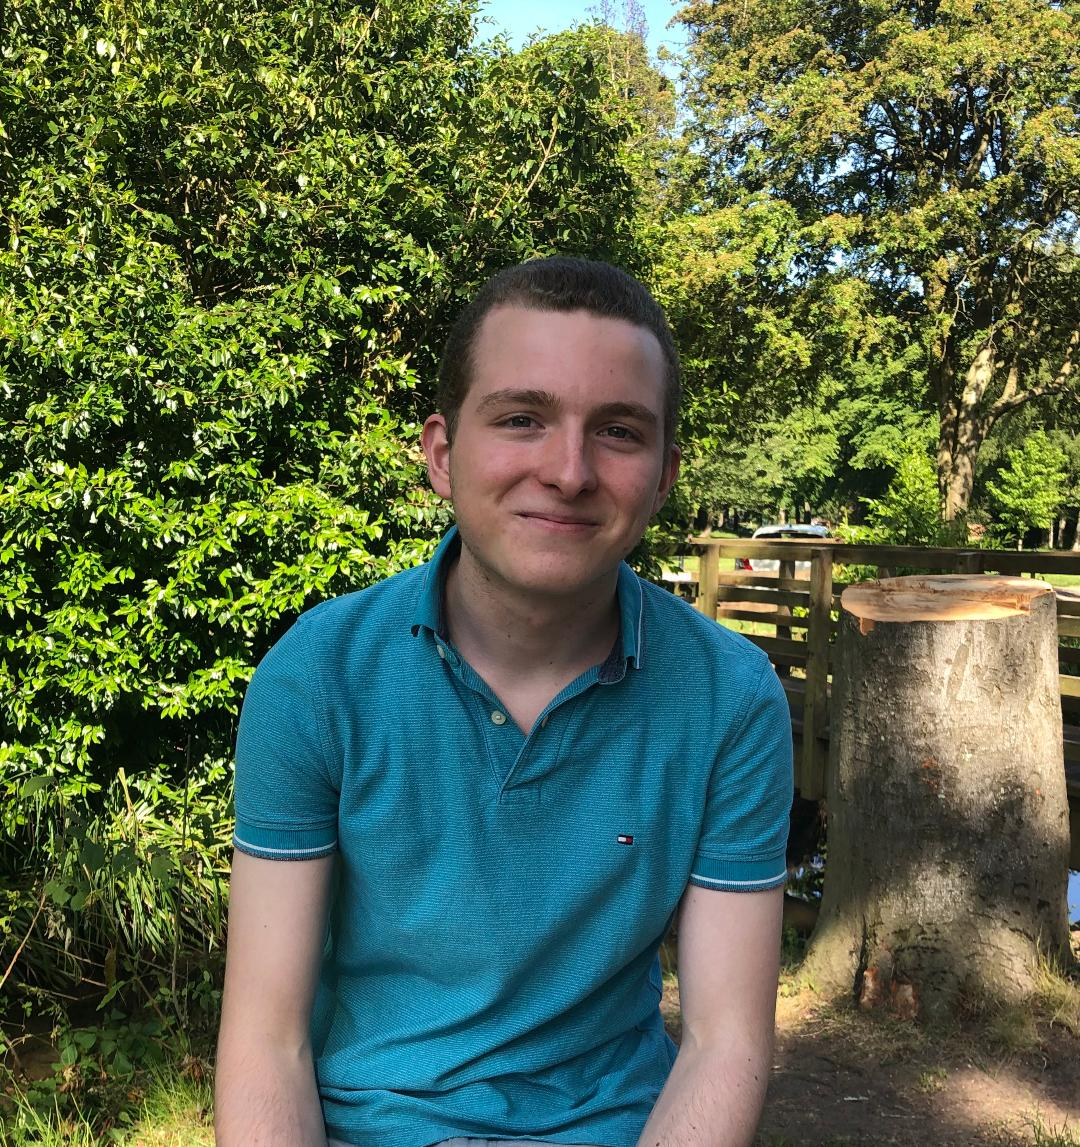
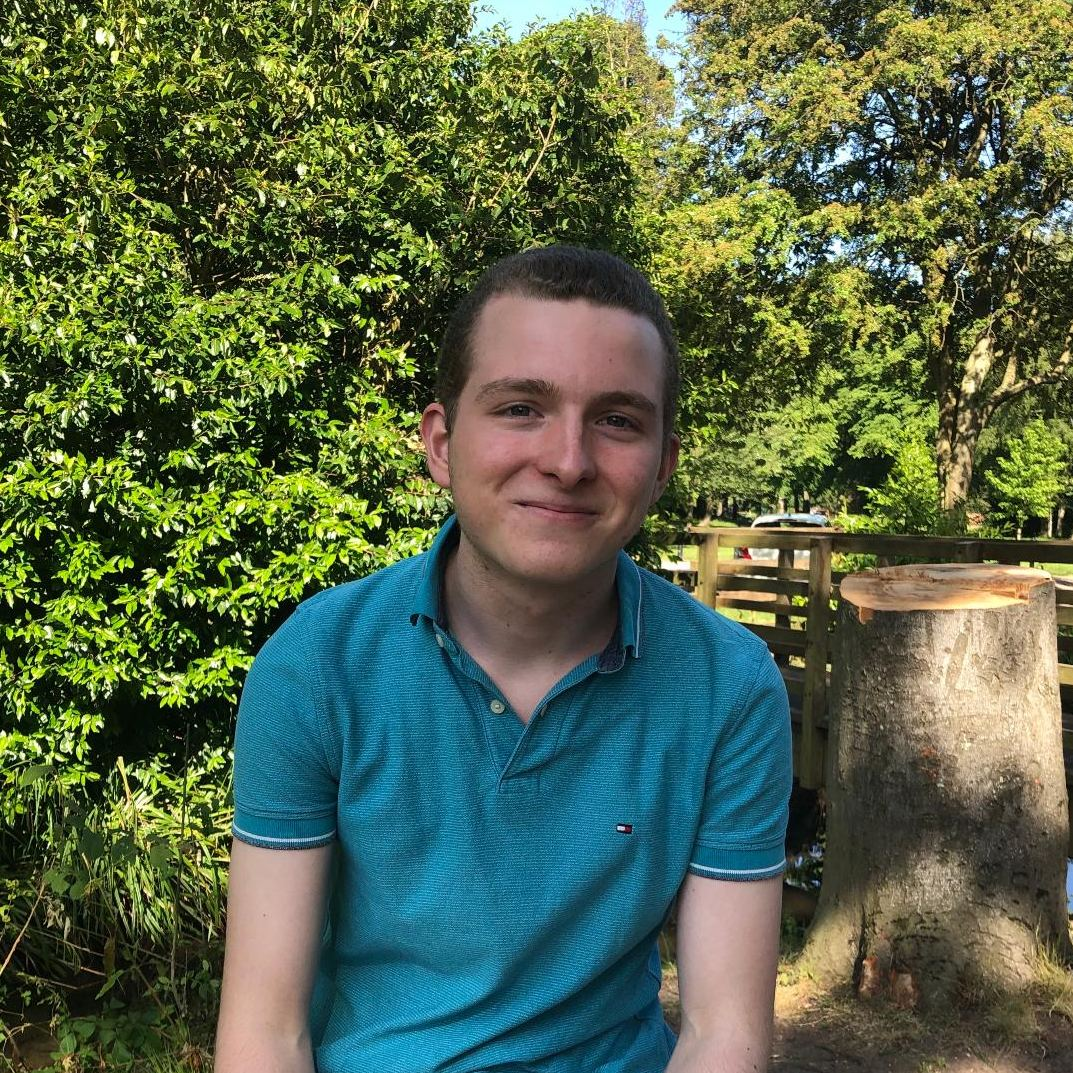
Circularise images, fix formatting, add email address

diff --git a/index.html b/index.html
@@ -10,13 +10,14 @@
 		<meta charset="utf-8" />
 		<meta name="viewport" content="width=device-width, initial-scale=1" />
 		<link rel="stylesheet" href="assets/css/main.css" />
+		<link rel="stylesheet" href="assets/css/font-awesome.min.css" />
 	</head>
 	<body>
 
 		<!-- Header -->
 			<header id="header">
 				<div class="inner">
-					<a href="index.html" class="logo">Bournville Tutors</a>
+					<div class="logo"><i class="fa fa-phone"></i> 07474 114 567</div>
 					<!-- <nav id="nav">
 						<a href="index.html">Home</a>
 					</nav>
@@ -27,7 +28,7 @@
 		<!-- Banner -->
 			<section id="banner">
 				<h1>Bournville Tutors</h1>
-				<p>Local KS2 and KS3 tutoring in English, Maths and more</p>
+				<p>Local tutoring in English, Maths and more</p>
 			</section>
 
 		<!-- One -->
@@ -36,31 +37,39 @@
 					<div class="flex flex-3">
 						<article>
 							<header>
-								<h3>Skype and Zoom tuition</h3>
+								<h3>What we offer</h3>
 							</header>
-							<p>Lockdown? No problem. We can provide tuition using Skype or Zoom.</p>
-							<footer>
-								<a href="#" class="button special">More</a>
-							</footer>
+								<ul class="what-we-offer-list">
+									<li>High quality Primary and Secondary level teaching.</li>
+									<li>Subject/Course specific Teaching</li>
+									<li>General academic support and guidance</li>
+									<li>Help with homework</li>
+								</ul>
+							<!-- <footer>
+								<a href="#" class="button special">More</a> <!-- TODO remove etc -->
+							</footer> -->
 						</article>
 						<article>
 							<header>
-								<h3>Local and experienced</h3>
+								<h3>Teaching and Covid-19</h3>
 							</header>
-							<p>All our tutors are local to Bournville.</p>
-							<footer>
+							<p>We offer all our teaching virtually, over either Skype or Zoom. 
+								However, if you’d prefer your child learn face-to-face, we’re 
+								more than happy to come to your house/garden and give 
+								socially-distanced lessons.</p>
+							<!-- <footer>
 								<a href="#" class="button special">More</a>
-							</footer>
+							</footer> -->
 						</article>
 						<article>
 							<header>
 								<h3>Get in touch!</h3>
 							</header>
-							<p>Phone: 07123 456 789</p>
-							<p>Email: loremipsum@loremipsum.co.uk</p>
-							<footer>
+							<p  style="margin-bottom: 1em"><span class="fa fa-phone"></span> Call Alice on 07474 114 567</p>
+							<p><span class="fa fa-envelope"> </span> contact@bournvilletutors.co.uk</p>
+							<!-- <footer>
 								<a href="#" class="button special">More</a>
-							</footer>
+							</footer> -->
 						</article>
 					</div>
 				</div>
@@ -76,16 +85,18 @@
 					<div class="flex flex-3" id="subjects">
 						<div class="article special">
 							<ul class="subjects-list">
-								<li>Defense Against the Dark Arts</li>
-								<li>Potions</li>
-								<li>Herbology</li>
+								<li>Maths</li>
+								<li>English Language and Literature</li>
+								<li>History</li>
+								<li>Geography</li>
 							</ul>
 						</div>
 						<div class="article">
 							<ul class="subjects-list">
-								<li>Care of Magical Creatures</li>
-								<li>Muggle Studies</li>
-								<li>Transfiguration</li>
+								<li>Religious Studies</li>
+								<li>Economics</li>
+								<li>Business Studies</li>
+								<li>PE (theory)</li>
 							</ul>
 						</div>
 					</div>
@@ -97,29 +108,40 @@
 				<div class="inner">
 					<header>
 						<h2>Our tutors</h2>
-						<p></p> <!-- TODO fill or delete-->
 					</header>
-					<div class="flex flex-4"> <!-- TODO circular images -->
+					<div class="flex flex-4">
 						<div class="box person">
 							<div class="image round">
 								<img src="images/Oscar.jpg" alt="Oscar Malt" />
 							</div>
 							<h3>Oscar Malt</h3>
-							<p>English, Philosophy, Sociology</p>
+							<p class="bio">Hi, I’m Oscar. I’ve lived in Bournville all my life and have worked a 
+								lot with local children at after-school clubs and activity camps. 
+								I like writing, playing guitar and rock climbing and am currently studying 
+								a philosophy degree at the University of Nottingham.</p>
 						</div>
 						<div class="box person">
 							<div class="image round">
 								<img src="images/Alice.jpg" alt="Alice Boshell" />
 							</div>
 							<h3>Alice Boshell</h3>
-							<p>Vestibulum comm</p>
+							<p class="bio">Hi, I’m Alice. After spending 7 years at Kings Norton Girls School, 
+								I’ve just completed the first year of an English Literature degree at 
+								Nottingham Trent University. I love reading, particularly fantasy and 
+								adventure books, and enjoy discussing them even more. I’ve also had a 
+								lot of really great experience working with children as I’ve been 
+								involved with my childhood scout group for nearly 9 years.</p>
 						</div>
 						<div class="box person">
 							<div class="image round">
 								<img src="images/Archie.jpg" alt="Archie Rose" />
 							</div>
 							<h3>Archie Rose</h3>
-							<p>Fusce pellentes</p>
+							<p class="bio">Hi, I’m Archie. I’m an undergraduate student at the University of Leeds, 
+								studying Economics and Geography. I attended Cotteridge Primary School,
+								 before moving to Bournville Secondary, and then King Edwards Five Ways 
+								 for Sixth Form. I’m an avid football fan, playing for Bournville FC for 
+								 eight years. </p>
 						</div>
 					</div>
 				</div>

diff --git a/assets/css/main.css b/assets/css/main.css
@@ -1943,7 +1943,7 @@
 			}
 
 		.flex.flex-4 .box {
-			width: 21%;
+			width: 31%;
 		}
 
 		@media screen and (max-width: 980px) {
@@ -2229,6 +2229,8 @@
 
 				.box.person .image img {
 					max-width: 80%;
+					margin-left: auto;
+					margin-right: auto;
 				}
 
 /* Icon */
@@ -2276,12 +2278,6 @@
 
 		.image.round img {
 			border-radius: 100%;
-		}
-
-		.image.headshot img {
-			width: 100px;
-			height: 100px;
-			overflow: hidden;
 		}
 
 		.image.left {
@@ -2958,7 +2954,7 @@
 
 	#banner {
 		padding: 12em 0 10em 0;
-		background: linear-gradient( rgba(0, 0, 0, 0.5), rgba(0, 0, 0, 0.5) ), url('../../images/BirminghamBournvilleShops_cropped.jpg');
+		background: linear-gradient( rgba(0, 0, 0, 0.5), rgba(0, 0, 0, 0.5) ), url('../../images/bournville-green.jpg');
 		background-size: cover;
 		background-position: top;
 		background-attachment: fixed;
@@ -3100,5 +3096,13 @@
 	.subjects-list {
 		text-align: left;
 		font-size:1.3em;
+	}
+
+	.what-we-offer-list {
+		font-size: 1.2em;
+	}
+
+	.bio {
+		text-align: left;
 	}
 
